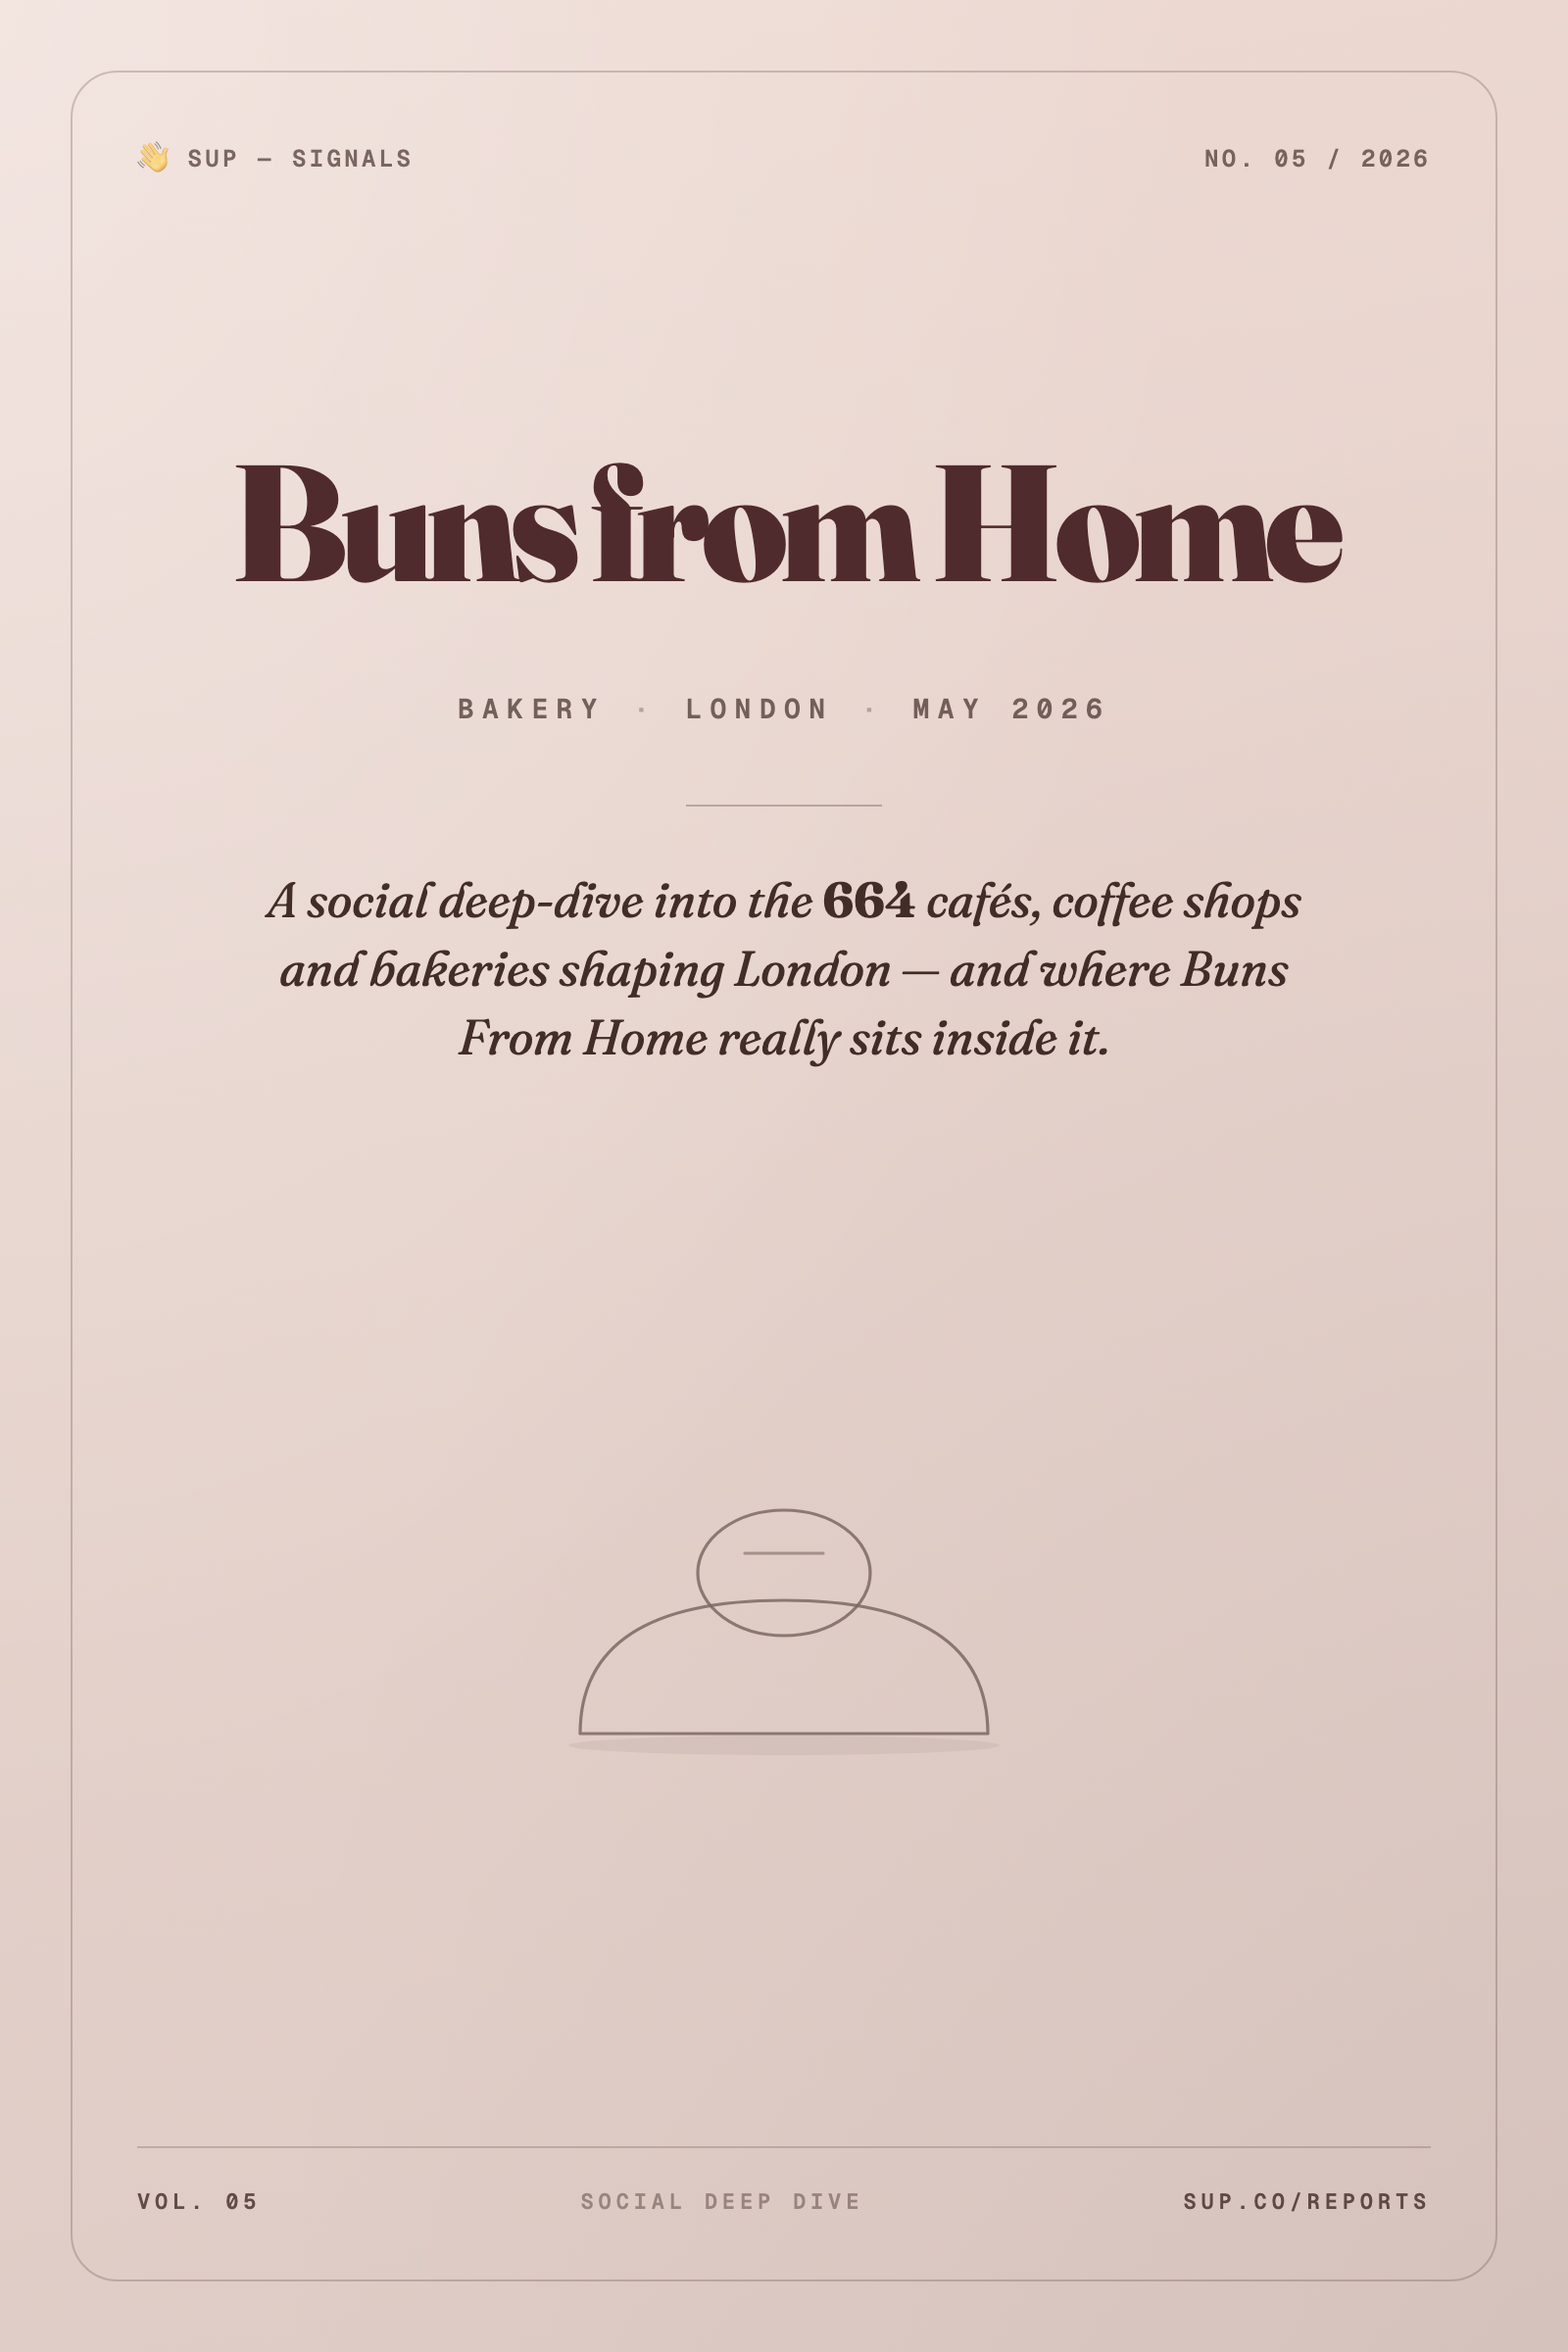
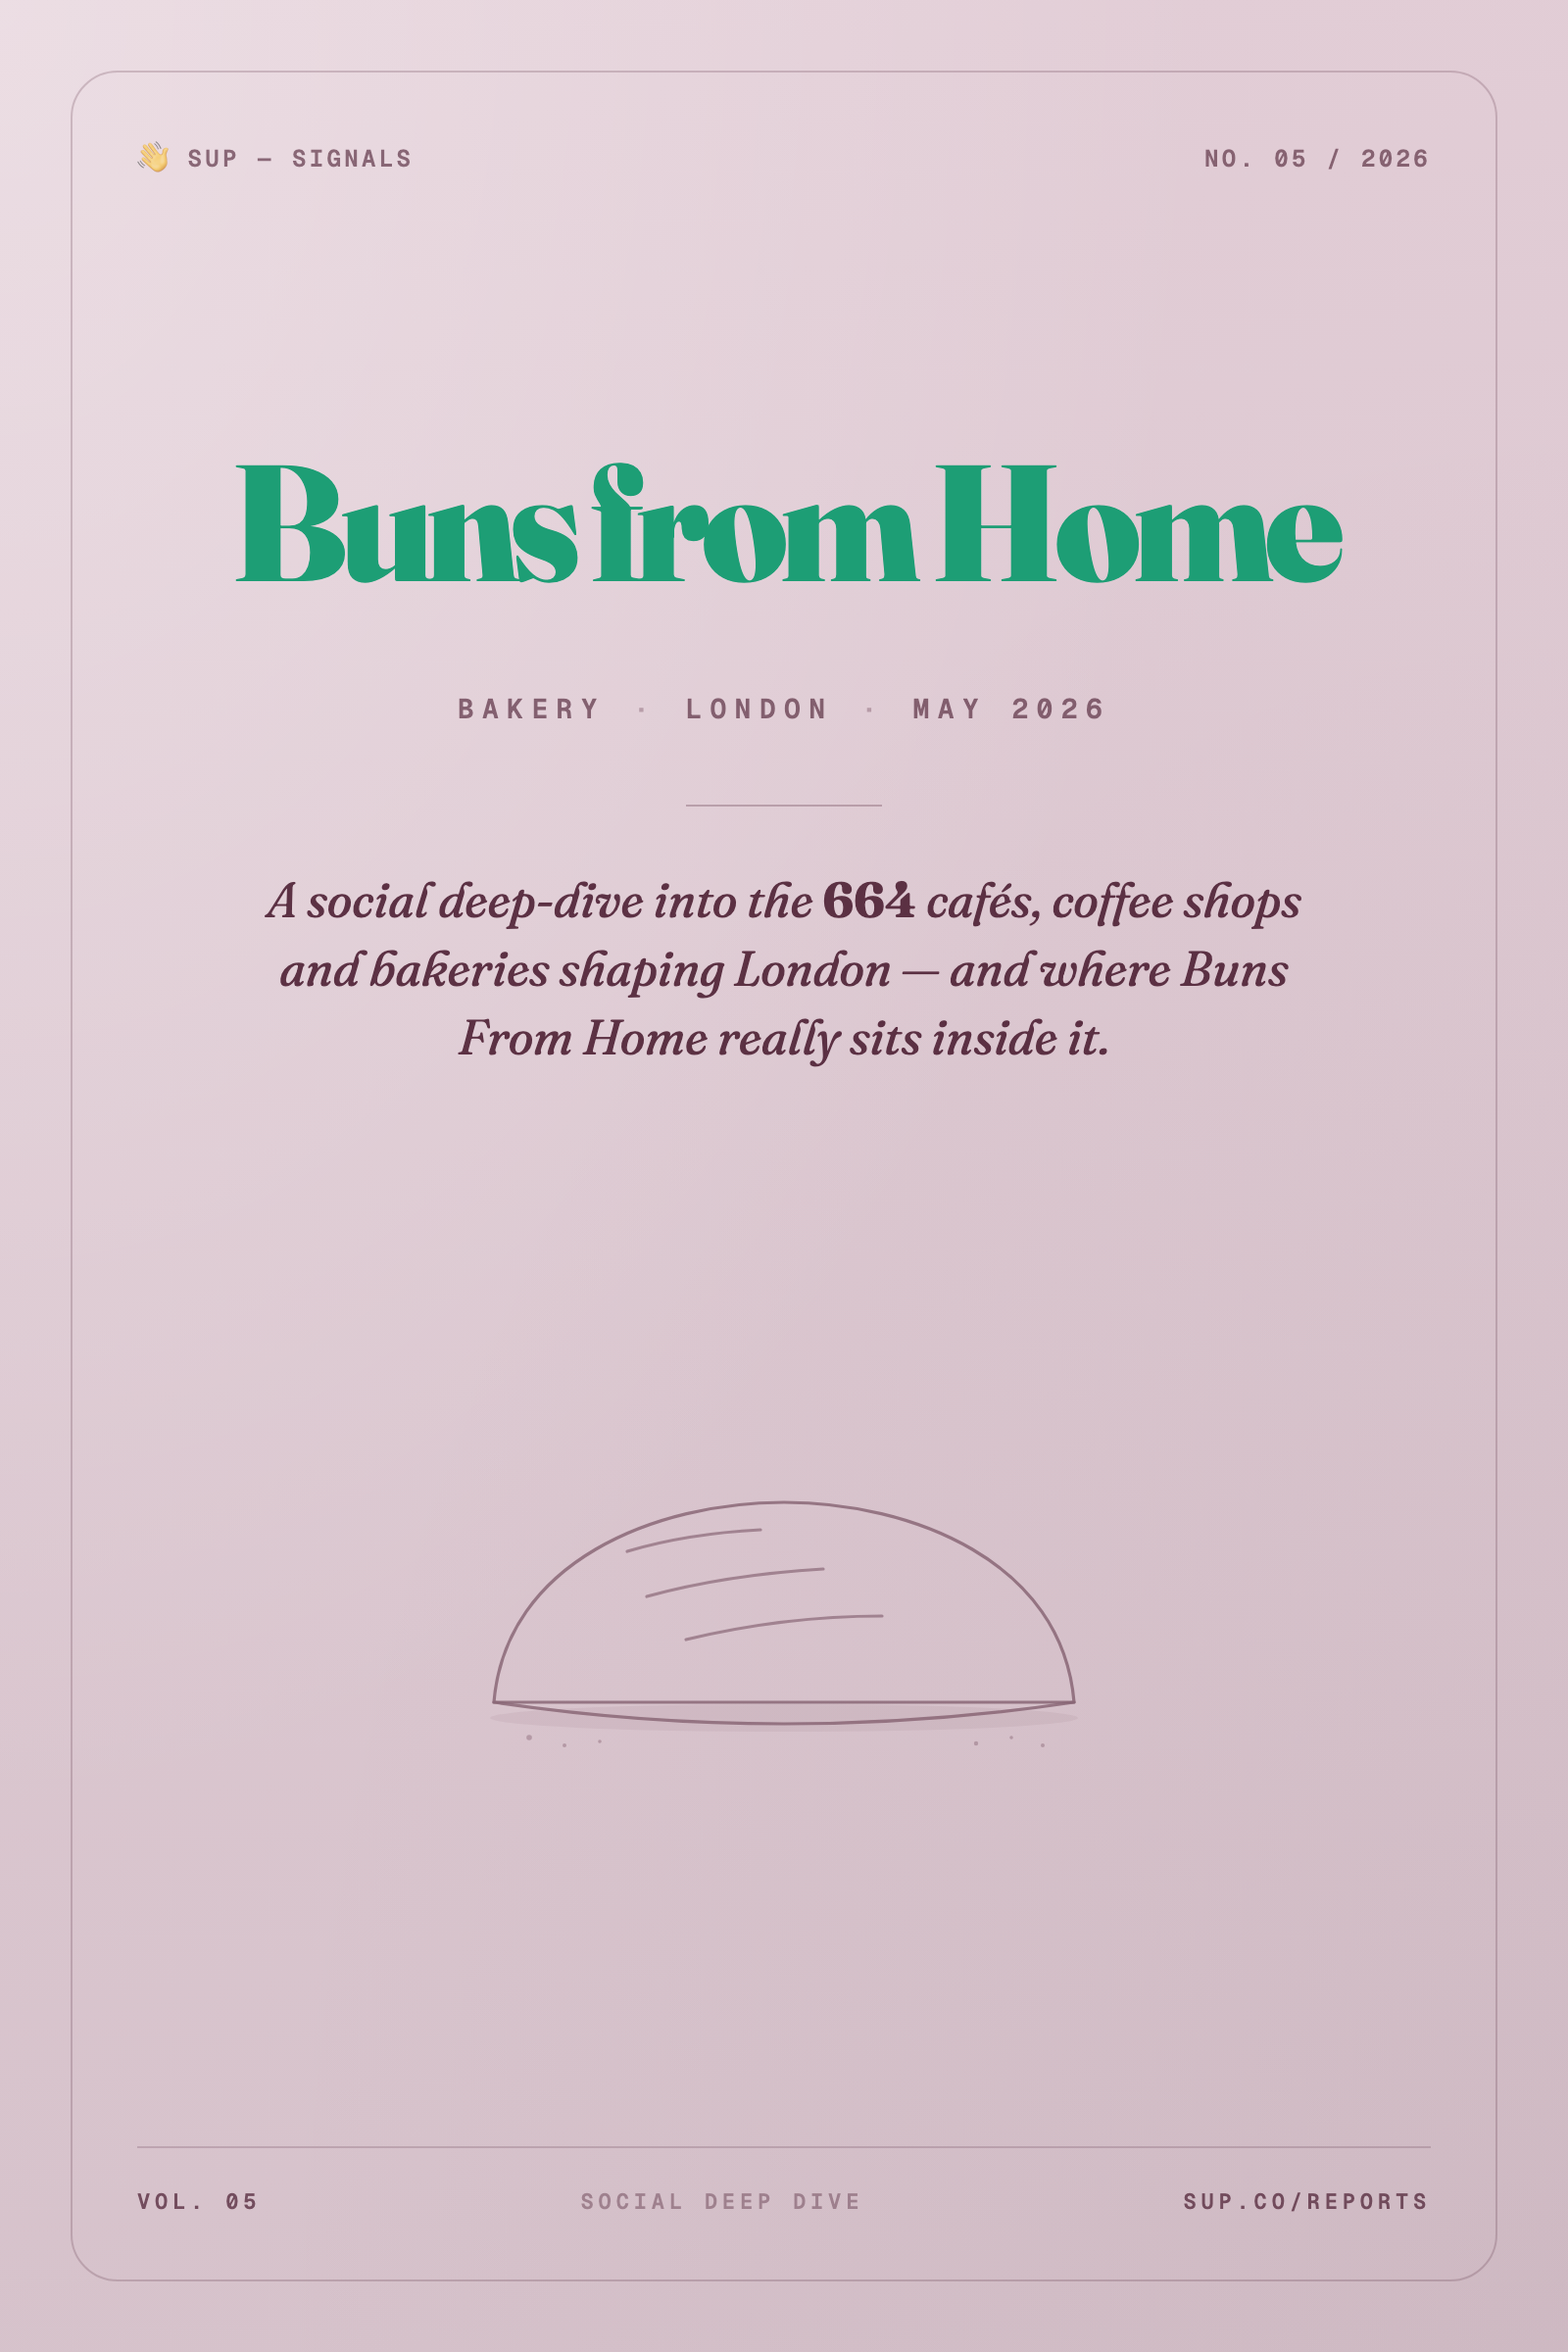
covers: switch all 3 to new gradient-tinted palette set v2
GAIL's → ember, Buns From Home → rose, Hamburger Helper → azure.
Replaces the v1 pastel set (blush/peach/butter…) where all 3 reports
were landing on the same colour. New palettes are desaturated descendants
of Sup's 8 brand gradients so each cover background traces back to brand
DNA, and the skill now does cross-niche rotation (last 3 anywhere).

diff --git a/reports/bunsfromhome/2026/may/cover.html b/reports/bunsfromhome/2026/may/cover.html
@@ -1,3 +1,4 @@
+<!-- sup-report-meta: subcategory="Bakeries" palette="rose" evidence_variant="Sourdough" brand_slug="bunsfromhome" year="2026" month_lower="may" layout="wordmark-hero" -->
 <!DOCTYPE html>
 <html lang="en">
 <head>
@@ -16,8 +17,8 @@
 
   .cover {
     width: 800px; height: 1200px;
-    background: linear-gradient(170deg, #EDD9D2 0%, #DECBC5 100%);
-    color: #2C1612;
+    background: linear-gradient(170deg, #E3CED7 0%, #D5C1CA 100%);
+    color: #4A1C30;
     position: relative; overflow: hidden;
     box-sizing: border-box;
   }
@@ -26,13 +27,13 @@
     position: absolute; inset: 0;
     background-image:
       radial-gradient(ellipse at top left, rgba(255,255,255,0.32), transparent 55%),
-      radial-gradient(ellipse at bottom right, rgba(44,22,18,0.05), transparent 60%);
+      radial-gradient(ellipse at bottom right, rgba(74,28,48,0.05), transparent 60%);
     pointer-events: none; z-index: 1;
   }
 
   .frame {
     position: absolute; inset: 36px;
-    border: 1px solid rgba(44,22,18,0.20);
+    border: 1px solid rgba(74,28,48,0.20);
     border-radius: 24px;
     z-index: 2; pointer-events: none;
   }
@@ -62,7 +63,7 @@
     font-weight: 900;
     font-size: 84px;
     line-height: 0.85;
-    color: #502B2D;
+    color: #1D9E75;
     letter-spacing: -0.045em;
     font-variation-settings: "opsz" 144;
   }
@@ -161,7 +162,7 @@
 
       <div class="deck">A social deep-dive into the <span class="num">664</span> cafés, coffee shops and bakeries shaping London — and where Buns From Home really sits inside it.</div>
 
-      <div class="evidence"><svg xmlns='http://www.w3.org/2000/svg' viewBox='0 0 360 180' fill='none'><g stroke='#2C1612' stroke-width='1.6' stroke-linecap='round' stroke-linejoin='round'><ellipse cx='180' cy='154' rx='110' ry='5' fill='#2C1612' opacity='0.10' stroke='none'/><path d='M 76 148 Q 76 80, 180 80 Q 284 80, 284 148 Z' opacity='0.85'/><ellipse cx='180' cy='66' rx='44' ry='32' opacity='0.85'/><path d='M 160 56 L 200 56' opacity='0.6'/></g></svg></div>
+      <div class="evidence"><svg xmlns='http://www.w3.org/2000/svg' viewBox='0 0 360 180' fill='none'><g stroke='#4A1C30' stroke-width='1.6' stroke-linecap='round' stroke-linejoin='round'><ellipse cx='180' cy='140' rx='150' ry='7' fill='#4A1C30' opacity='0.10' stroke='none'/><path d='M 32 132 C 38 60, 115 30, 180 30 C 245 30, 322 60, 328 132 Z' opacity='0.85'/><path d='M 32 132 Q 180 154, 328 132' opacity='0.85'/><path d='M 100 55 Q 130 46, 168 44' opacity='0.7'/><path d='M 110 78 Q 150 67, 200 64' opacity='0.7'/><path d='M 130 100 Q 180 88, 230 88' opacity='0.7'/></g><g fill='#4A1C30' opacity='0.45'><circle cx='50' cy='150' r='1.4'/><circle cx='68' cy='154' r='1'/><circle cx='86' cy='152' r='0.9'/><circle cx='278' cy='153' r='1.1'/><circle cx='296' cy='150' r='0.9'/><circle cx='312' cy='154' r='1.0'/></g></svg></div>
 
       <div class="bottom-rule"></div>
       <div class="footer">

diff --git a/reports/hamburgerhelper/2026/may/cover.html b/reports/hamburgerhelper/2026/may/cover.html
@@ -1,4 +1,4 @@
-<!-- sup-report-meta: subcategory="Boxed Meal Kits" palette="blush" evidence_variant="Meal box" brand_slug="hamburgerhelper" year="2026" month_lower="may" layout="wordmark-hero" -->
+<!-- sup-report-meta: subcategory="Boxed Meal Kits" palette="azure" evidence_variant="Spoon" brand_slug="hamburgerhelper" year="2026" month_lower="may" layout="wordmark-hero" -->
 <!DOCTYPE html>
 <html lang="en">
 <head>
@@ -17,8 +17,8 @@
 
   .cover {
     width: 800px; height: 1200px;
-    background: linear-gradient(170deg, #EDD9D2 0%, #DECBC5 100%);
-    color: #2C1612;
+    background: linear-gradient(170deg, #C6D3E2 0%, #BAC6D4 100%);
+    color: #102842;
     position: relative; overflow: hidden;
     box-sizing: border-box;
   }
@@ -27,13 +27,13 @@
     position: absolute; inset: 0;
     background-image:
       radial-gradient(ellipse at top left, rgba(255,255,255,0.32), transparent 55%),
-      radial-gradient(ellipse at bottom right, rgba(44,22,18,0.05), transparent 60%);
+      radial-gradient(ellipse at bottom right, rgba(16,40,66,0.05), transparent 60%);
     pointer-events: none; z-index: 1;
   }
 
   .frame {
     position: absolute; inset: 36px;
-    border: 1px solid rgba(44,22,18,0.20);
+    border: 1px solid rgba(16,40,66,0.20);
     border-radius: 24px;
     z-index: 2; pointer-events: none;
   }
@@ -162,7 +162,7 @@
 
       <div class="deck">A signal report on Hamburger Helper, the <span class="num">57</span>-brand boxed meal kit category, and the creator strategies competitors are running.</div>
 
-      <div class="evidence"><svg xmlns='http://www.w3.org/2000/svg' viewBox='0 0 360 180' fill='none'><ellipse cx='180' cy='160' rx='75' ry='4' fill='#2C1612' opacity='0.18'/><g stroke='#2C1612' stroke-width='1.6' stroke-linecap='round' stroke-linejoin='round' fill='none' opacity='0.75'><rect x='115' y='55' width='130' height='100' rx='3'/><line x1='115' y1='95' x2='245' y2='95'/><line x1='115' y1='105' x2='245' y2='105'/><rect x='130' y='115' width='100' height='25' rx='2' opacity='0.55'/><line x1='140' y1='128' x2='220' y2='128' opacity='0.4'/><circle cx='180' cy='75' r='9' opacity='0.55'/><path d='M174 75 L178 79 L186 71' opacity='0.55'/></g></svg></div>
+      <div class="evidence"><svg xmlns='http://www.w3.org/2000/svg' viewBox='0 0 360 180' fill='none'><ellipse cx='180' cy='160' rx='65' ry='4' fill='#102842' opacity='0.18'/><g stroke='#102842' stroke-width='1.6' stroke-linecap='round' stroke-linejoin='round' fill='none' opacity='0.75'><ellipse cx='195' cy='62' rx='28' ry='20' transform='rotate(20 195 62)'/><line x1='178' y1='78' x2='115' y2='148' stroke-width='1.8'/><path d='M180 55 Q195 45, 210 55' opacity='0.45'/><line x1='180' y1='65' x2='208' y2='65' opacity='0.4'/></g></svg></div>
 
       <div class="bottom-rule"></div>
       <div class="footer">

diff --git a/reports/gails/2026/may/cover.html b/reports/gails/2026/may/cover.html
@@ -1,3 +1,4 @@
+<!-- sup-report-meta: subcategory="Bakeries" palette="ember" evidence_variant="Cottage loaf" brand_slug="gails" year="2026" month_lower="may" layout="wordmark-hero" -->
 <!DOCTYPE html>
 <html lang="en">
 <head>
@@ -16,8 +17,8 @@
 
   .cover {
     width: 800px; height: 1200px;
-    background: linear-gradient(170deg, #EDD9D2 0%, #DECBC5 100%);
-    color: #2C1612;
+    background: linear-gradient(170deg, #E6CFBC 0%, #D8C2B0 100%);
+    color: #43260E;
     position: relative; overflow: hidden;
     box-sizing: border-box;
   }
@@ -26,13 +27,13 @@
     position: absolute; inset: 0;
     background-image:
       radial-gradient(ellipse at top left, rgba(255,255,255,0.32), transparent 55%),
-      radial-gradient(ellipse at bottom right, rgba(44,22,18,0.05), transparent 60%);
+      radial-gradient(ellipse at bottom right, rgba(67,38,14,0.05), transparent 60%);
     pointer-events: none; z-index: 1;
   }
 
   .frame {
     position: absolute; inset: 36px;
-    border: 1px solid rgba(44,22,18,0.20);
+    border: 1px solid rgba(67,38,14,0.20);
     border-radius: 24px;
     z-index: 2; pointer-events: none;
   }
@@ -161,7 +162,7 @@
 
       <div class="deck">A social deep-dive into the <span class="num">642</span> cafés and bakeries shaping London, and where GAIL&#x27;s 170-store estate sits across paid, organic, and creators.</div>
 
-      <div class="evidence"><svg xmlns='http://www.w3.org/2000/svg' viewBox='0 0 360 180' fill='none'><g stroke='#2C1612' stroke-width='1.6' stroke-linecap='round' stroke-linejoin='round'><ellipse cx='180' cy='154' rx='110' ry='5' fill='#2C1612' opacity='0.10' stroke='none'/><path d='M 76 148 Q 76 80, 180 80 Q 284 80, 284 148 Z' opacity='0.85'/><ellipse cx='180' cy='66' rx='44' ry='32' opacity='0.85'/><path d='M 160 56 L 200 56' opacity='0.6'/></g></svg></div>
+      <div class="evidence"><svg xmlns='http://www.w3.org/2000/svg' viewBox='0 0 360 180' fill='none'><g stroke='#43260E' stroke-width='1.6' stroke-linecap='round' stroke-linejoin='round'><ellipse cx='180' cy='154' rx='110' ry='5' fill='#43260E' opacity='0.10' stroke='none'/><path d='M 76 148 Q 76 80, 180 80 Q 284 80, 284 148 Z' opacity='0.85'/><ellipse cx='180' cy='66' rx='44' ry='32' opacity='0.85'/><path d='M 160 56 L 200 56' opacity='0.6'/></g></svg></div>
 
       <div class="bottom-rule"></div>
       <div class="footer">
